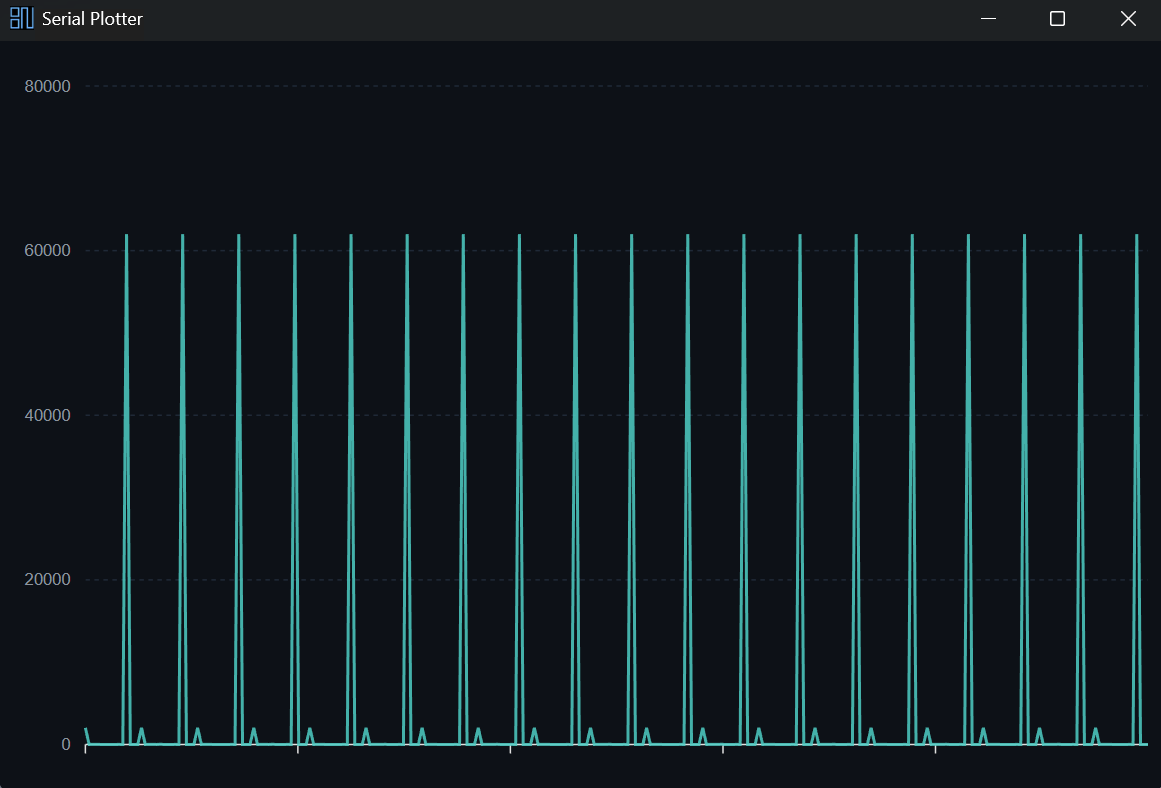
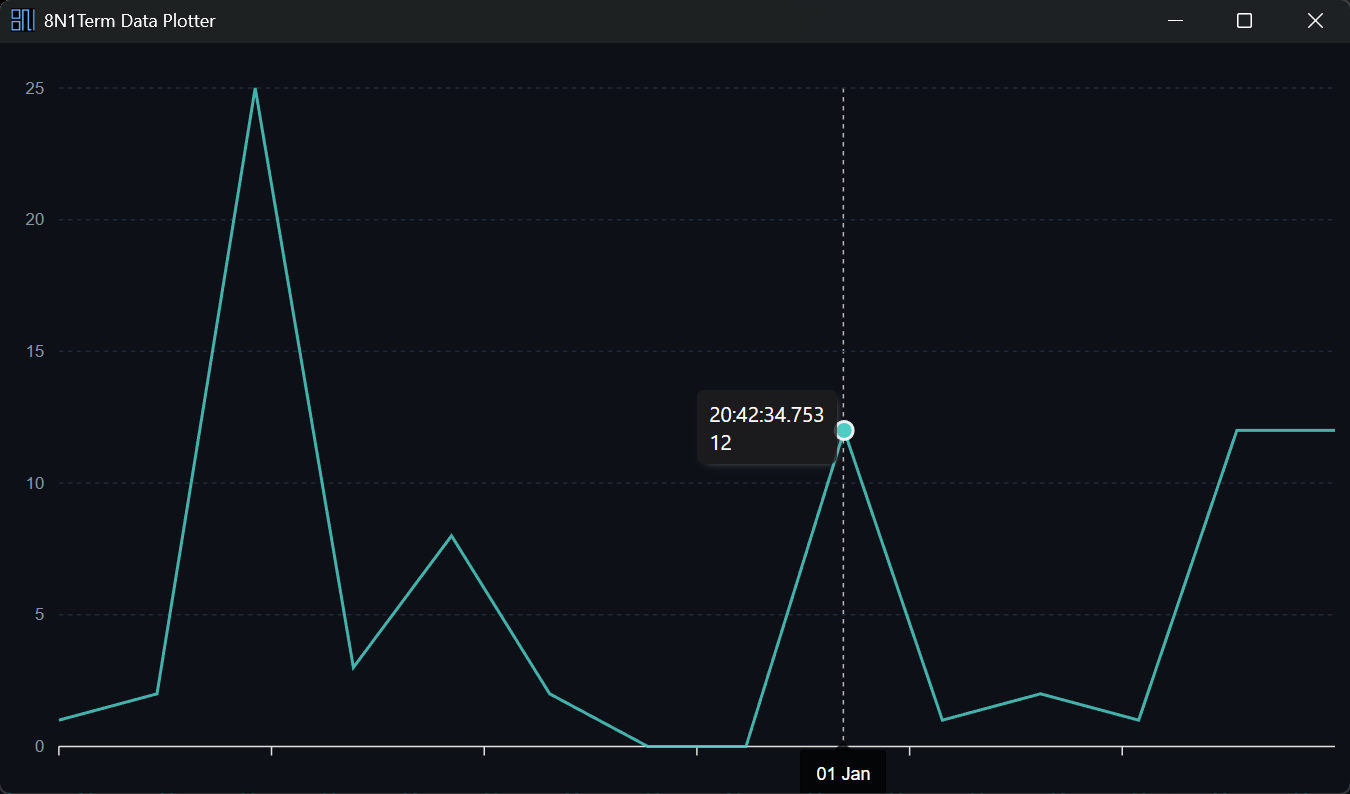
Updated Data Plotter screenshot

diff --git a/plotter.html b/plotter.html
@@ -126,8 +126,7 @@
 		  // delimiter
 		  if (token.length) {
 			const y = Number(token)
-
-			if (Number.isFinite(y)) {
+			if (Number.isFinite(y) && y < 1000) {
 			  seriesData.push({
 				x: xIndex++,
 				y,
@@ -145,7 +144,7 @@
 	  if (token.length) {
 		const y = Number(token)
 
-		if (Number.isFinite(y)) {
+		if (Number.isFinite(y) && y < 1000) {
 		  seriesData.push({
 			x: xIndex++,
 			y,
